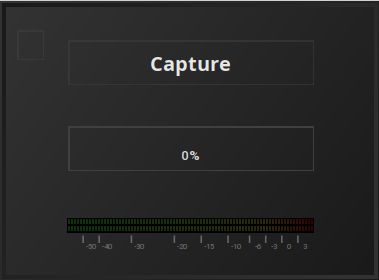
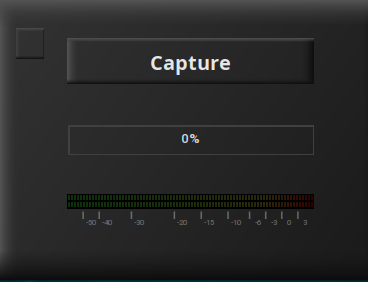
Update Screenshot

diff --git a/profiler/profiler_x11ui.c b/profiler/profiler_x11ui.c
@@ -42,7 +42,7 @@ static void box_shadow(Widget_t *w) {
     XGetWindowAttributes(w->app->dpy, (Window)w->widget, &attrs);
     int width = attrs.width;
     int height = attrs.height;
-    if (w->state == 3) {
+    if (adj_get_value(w->adj)) {
         cairo_pattern_t *pat = cairo_pattern_create_linear (0, 0, width, 0);
         cairo_pattern_add_color_stop_rgba (pat, 1,  0.33, 0.33, 0.33, 1.0);
         cairo_pattern_add_color_stop_rgba (pat, 0.95,  0.2, 0.2, 0.2, 0.0);
@@ -63,8 +63,8 @@ static void box_shadow(Widget_t *w) {
     } else {
         cairo_pattern_t *pat = cairo_pattern_create_linear (0, 0, width, 0);
         cairo_pattern_add_color_stop_rgba (pat, 0,  0.33, 0.33, 0.33, 1.0);
-        cairo_pattern_add_color_stop_rgba (pat, 0.1,  0.2, 0.2, 0.2, 0.0);
-        cairo_pattern_add_color_stop_rgba (pat, 0.9,  0.1, 0.1, 0.1, 0.0);
+        cairo_pattern_add_color_stop_rgba (pat, 0.05,  0.2, 0.2, 0.2, 0.0);
+        cairo_pattern_add_color_stop_rgba (pat, 0.95,  0.1, 0.1, 0.1, 0.0);
         cairo_pattern_add_color_stop_rgba (pat, 1,  0.05, 0.05, 0.05, 1.0);
         cairo_set_source(w->crb, pat);
         cairo_paint (w->crb);
@@ -85,6 +85,7 @@ static void box_shadow(Widget_t *w) {
 static void draw_window(void *w_, void* user_data) {
     Widget_t *w = (Widget_t*)w_;
     set_pattern(w,&w->app->color_scheme->selected,&w->app->color_scheme->normal,BACKGROUND_);
+    //use_bg_color_scheme(w, NORMAL_);
     cairo_paint (w->crb);
     box_shadow(w);
 }
@@ -303,7 +304,7 @@ static LV2UI_Handle instantiate(const LV2UI_Descriptor * descriptor,
     // store a pointer to the X11_UI struct in the parent_struct Widget_t field
     ui->widget[1]->parent_struct = ui;
     // create a meter widget
-    ui->widget[2] = add_hmeter(ui->win, "Meter", true, 60, 135, 220, 10);
+    ui->widget[2] = add_hmeter(ui->win, "Meter", true, 60, 125, 220, 10);
     // store the port index in the Widget_t data field
     ui->widget[2]->data = METER;
     // set resize mode for the toggle button to CENTER ratio
@@ -313,7 +314,7 @@ static LV2UI_Handle instantiate(const LV2UI_Descriptor * descriptor,
     ui->main.childlist->childs[a+1]->scale.gravity = CENTER;
 
 
-    ui->widget[3] = add_hslider(ui->win, "STATE", 60, 80, 220, 30);
+    ui->widget[3] = add_hslider(ui->win, "STATE", 60, 80, 220, 20);
     set_adjustment(ui->widget[3]->adj, 0.0, 0.0, 0.0, 1.0, 0.001, CL_CONTINUOS);
     ui->widget[3]->data = STATE;
     // set resize mode for the toggle button to CENTER ratio
